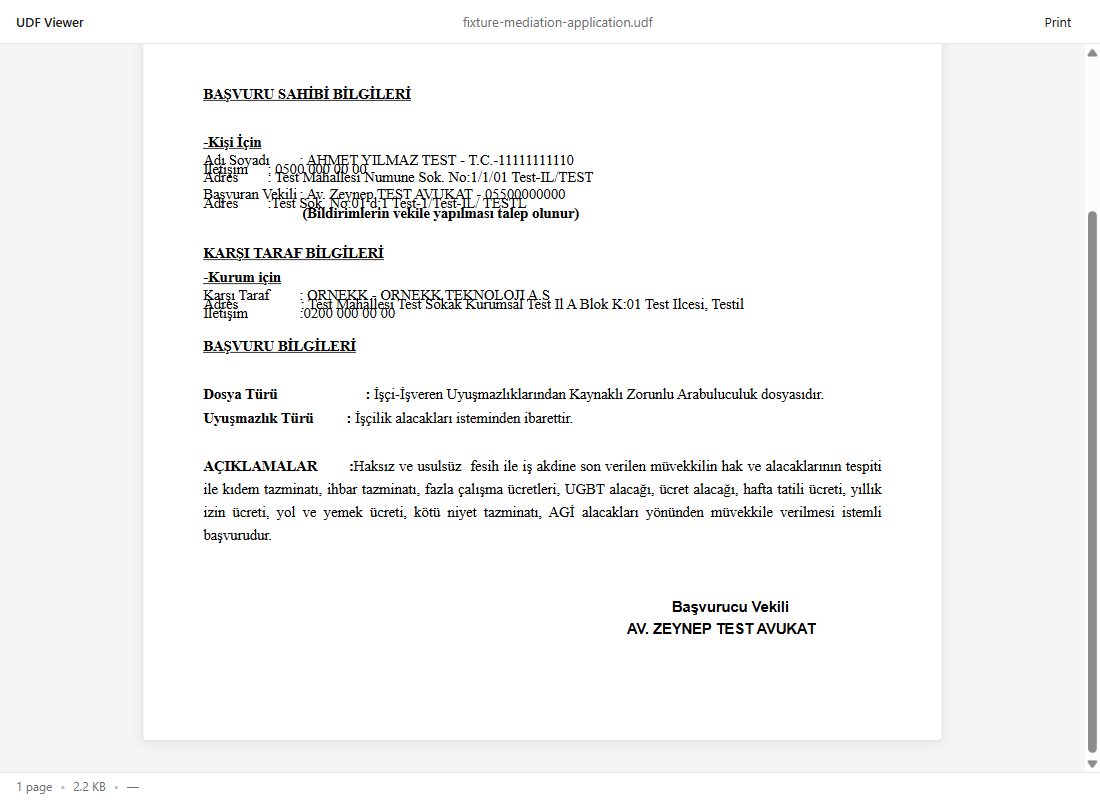
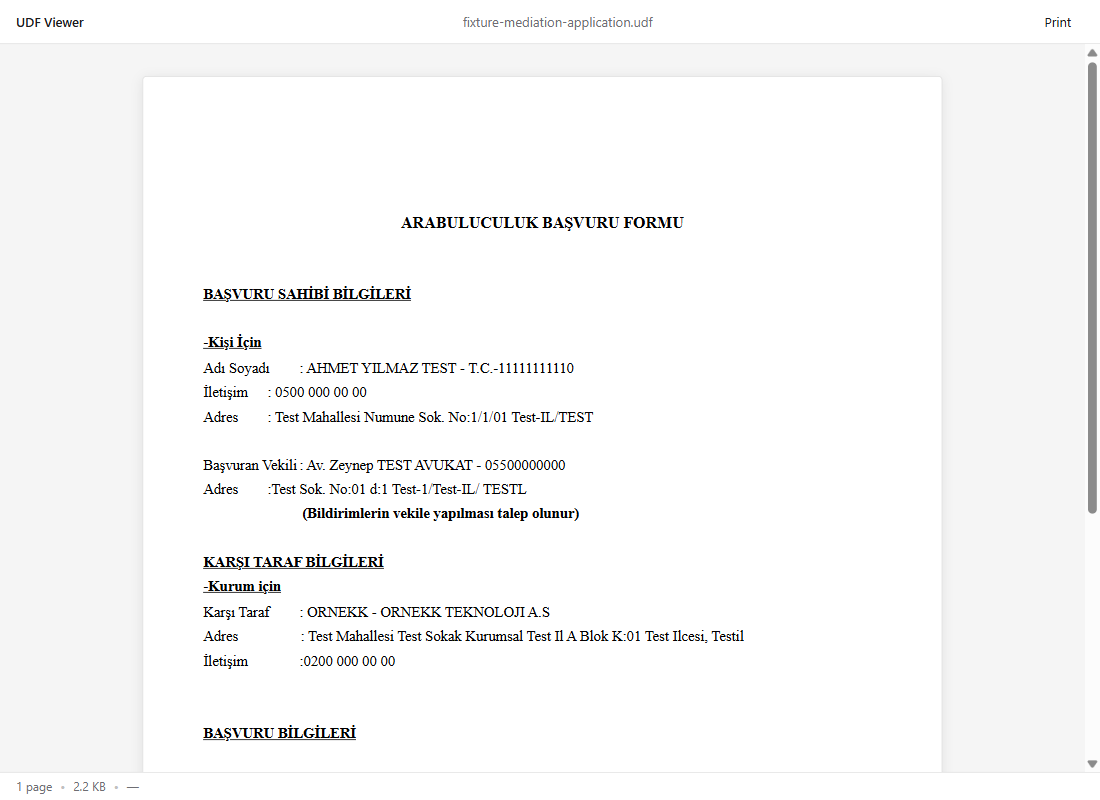
fix(render): treat lineSpacing as additive line-height
Closes #7. UDF's LineSpacing semantic is additive (matching the
Java text framework UYAP is built on), so 0.5 means "single plus
half" total spacing. The previous code emitted line-height:
<lineSpacing> verbatim, which mapped LineSpacing="0.5" to CSS
line-height: 0.5 — a literal half-spacing that collapsed adjacent
lines on top of each other on the application fixture's contact
block.

Switch to line-height: (1 + lineSpacing). 47 tests, all passing
(rewrote the existing single-data-point unit test as two-data-
point so wrong formulas can't slip through, plus a fixture-level
regression test). Application fixture screenshot refreshed.

diff --git a/src/render.js b/src/render.js
@@ -81,7 +81,12 @@ function paragraphStyle(style) {
     parts.push(`margin-bottom: ${style.spaceBelow}pt`);
   }
   if (typeof style.lineSpacing === "number" && style.lineSpacing > 0) {
-    parts.push(`line-height: ${style.lineSpacing}`);
+    // UDF's LineSpacing is additive: it's the *extra* space on top of
+    // single line spacing, matching the Java text framework UYAP is built
+    // on. UYAP body paragraphs commonly ship with 0.5 meaning "single plus
+    // half" (line-height 1.5); treating the raw value as a CSS line-height
+    // multiplier (0.5 literal) would collapse adjacent lines visually.
+    parts.push(`line-height: ${1 + style.lineSpacing}`);
   }
   return parts.join("; ");
 }
